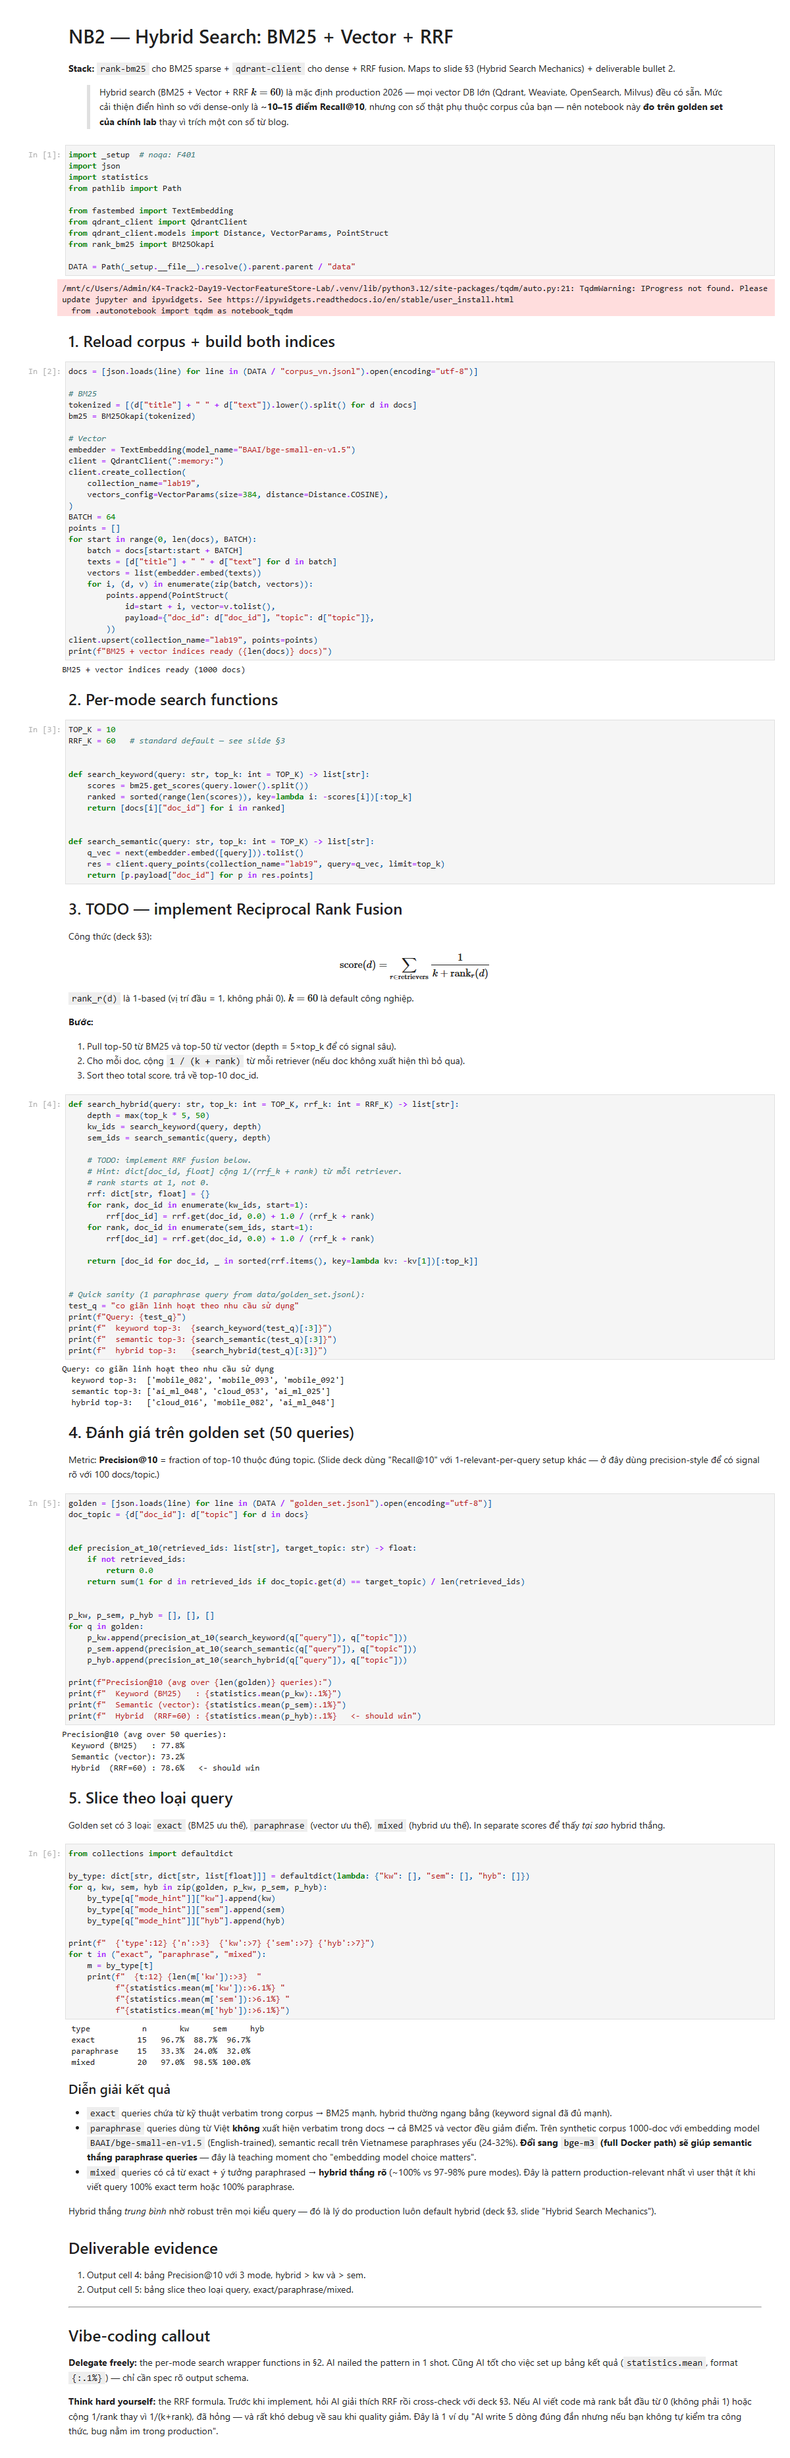
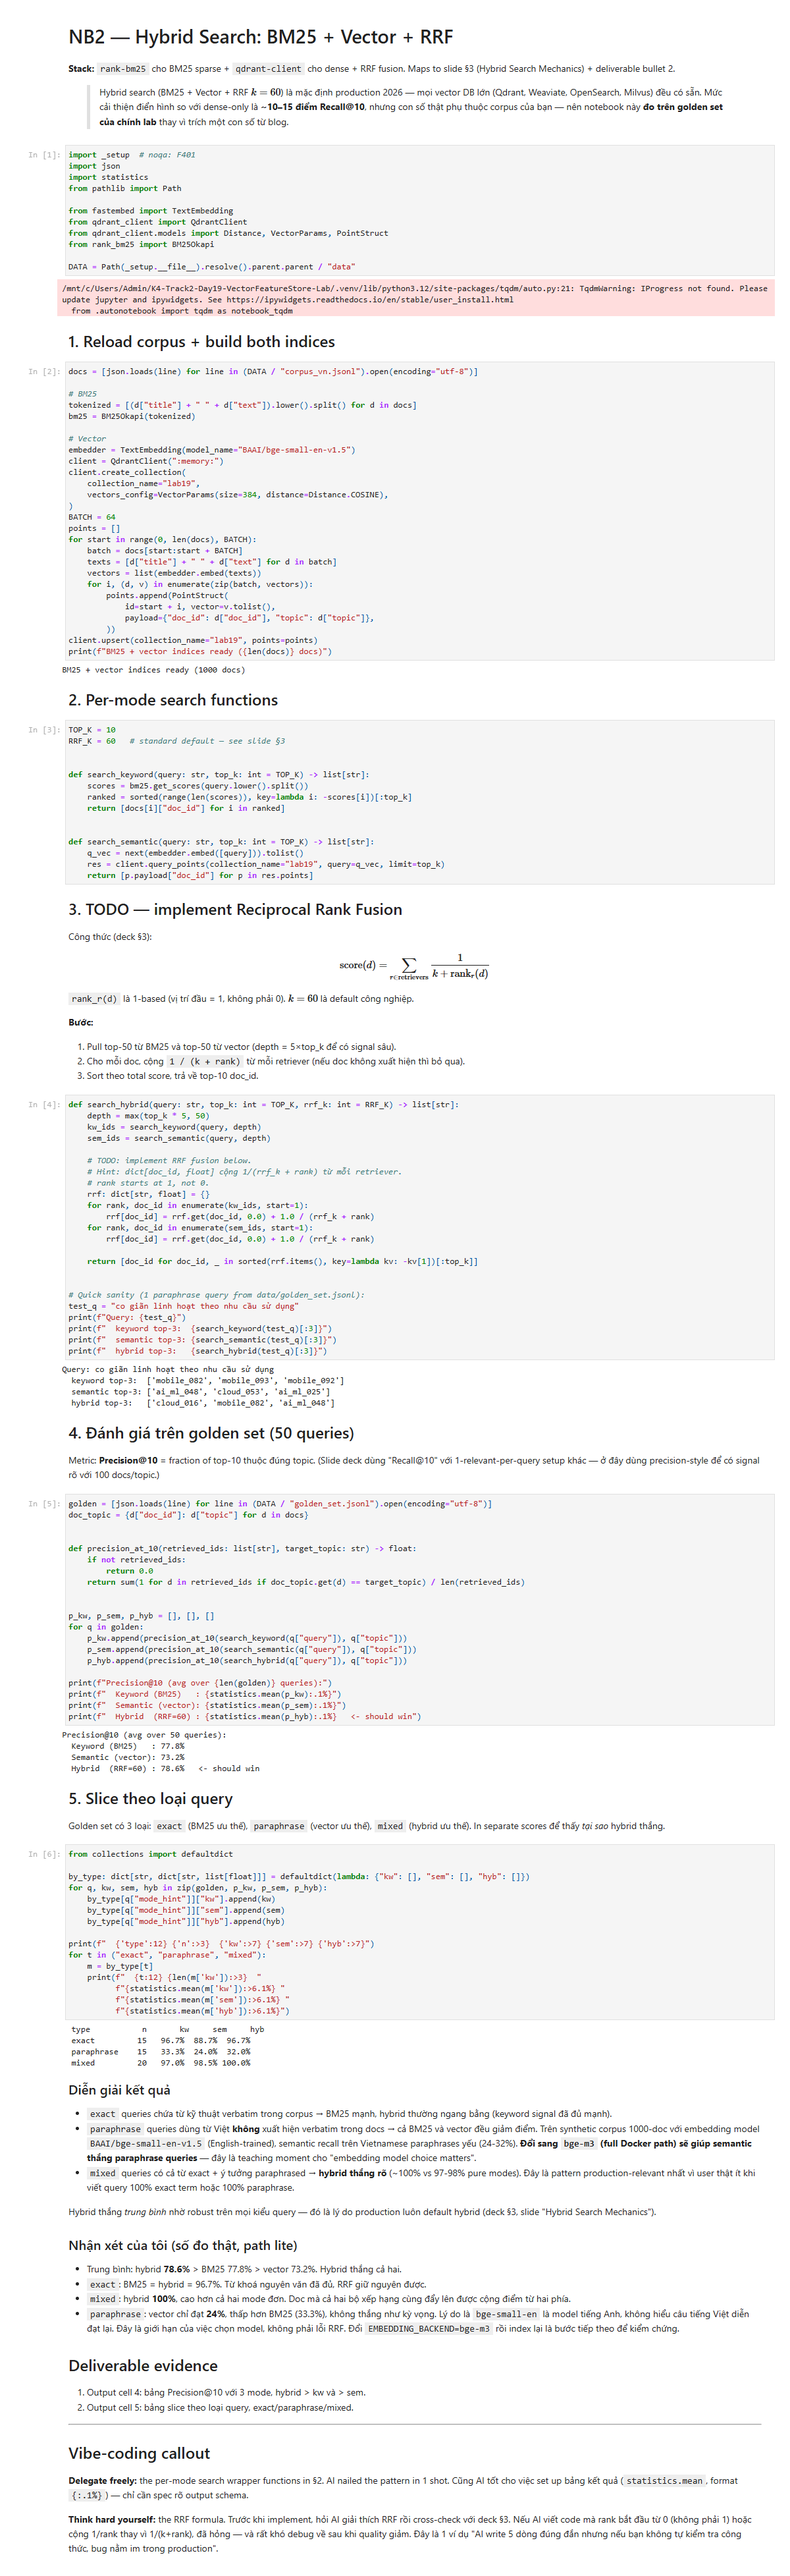
Add own analysis notes to NB2, NB6, NB7 and refresh screenshots

Changed region(s): [[0.0617, 0.0, 0.9867, 0.9944], [0.5858, 0.5904, 0.6167, 0.6215]]

diff --git a/notebooks/06_agent_retrieval.py b/notebooks/06_agent_retrieval.py
@@ -123,6 +123,28 @@ print(f"\nΔ recall vs single-shot:  tách câu {split - base:+.3f}   tách + fi
 # NB5 lặp lại ở tầng agent: **filter không miễn phí, phải đo chứ đừng đoán.**
 
 # %% [markdown]
+# ### Nhận xét của tôi: vì sao `agentic (+filter)` thấp hơn `agentic (no filter)`
+#
+# Cả ba chiến lược cùng lấy về 16 doc. Kết quả: single-shot recall 0.526 / balance
+# 0.08; tách câu không filter **0.906 / 0.93**; tách câu kèm filter 0.823 / 0.76.
+#
+# Bật filter mất khoảng 0.08 recall vì `topic` được **đoán từ keyword**
+# (`TOPIC_HINTS`, khớp theo chuỗi con). Mình so từng query: có đúng 2 query giảm
+# recall từ 1.00 xuống 0.50, và cả hai đều bị gán nhầm sang `ai_ml` do hint
+# `"ai"` khớp *bên trong từ khác*:
+#
+# - "circuit breaker tránh cascading f**ai**lure" bị gán `ai_ml`, trong khi gold
+#   thuộc `backend`.
+# - "xác thực h**ai** yếu tố cho người dùng" bị gán `ai_ml`, trong khi gold thuộc
+#   `security`.
+#
+# Filter sai loại toàn bộ doc đúng của vế đó, nên mất nửa recall. Bước reflection
+# không cứu được, vì nó chỉ thử lại khi có ít hơn 4 kết quả, mà cụm `ai_ml` vẫn
+# trả đủ 8 doc (chỉ là sai cụm). Cách sửa: khớp theo ranh giới từ (`\bai\b`) hoặc
+# để LLM chọn từ `enum`. Kết luận giống NB5: **filter là một giả định, phải đo
+# trên golden set trước khi bật mặc định.**
+
+# %% [markdown]
 # ## 4. Reflection: filter tồi còn tệ hơn không filter
 #
 # `Agent` thử lại **một lần** với filter được nới ra khi một call trả về quá ít

diff --git a/notebooks/07_semantic_cache.py b/notebooks/07_semantic_cache.py
@@ -116,6 +116,24 @@ for th in (0.60, 0.70, 0.75, 0.80, 0.85, 0.90, 0.95):
 # > hằng số để copy. Phân bố query của bạn quyết định con số cuối cùng.
 
 # %% [markdown]
+# ### Nhận xét của tôi: chọn ngưỡng **0.85** cho corpus này
+#
+# | ngưỡng | tiết kiệm | trả lời sai |
+# |---|---|---|
+# | 0.75 | 100% | **36%** |
+# | 0.80 | 100% | 5% |
+# | **0.85** | **100%** | **0%** |
+# | 0.90 | 96% | 0% |
+#
+# 0.75 chưa đủ: bảng cho thấy khoảng 31% số probe *không có* trong cache (36% trừ
+# 5%) vẫn có câu gần nhất với điểm 0.75–0.80. Corpus chỉ có 10 chủ đề với vốn từ
+# rất gần nhau, và `bge-small-en` không phân biệt tốt tiếng Việt. Vì vậy hai câu
+# hỏi khác nhau vẫn "trông giống" nhau, và cứ hơn một phần ba số lần trả lời là
+# trả lời cho câu hỏi khác. Ở 0.85, tỉ lệ sai về 0% mà vẫn giữ trọn phần tiết kiệm; 0.90 an
+# toàn hơn nhưng bắt đầu mất phần tiết kiệm. Mình chọn 0.85, kèm điều kiện phải
+# quét lại ngưỡng mỗi khi đổi embedding model hoặc khi phân bố query thay đổi.
+
+# %% [markdown]
 # ## 3. TTL: câu trả lời cũ không tự biết mình cũ
 #
 # `SemanticCache` dùng **đồng hồ ảo** (`advance()`) nên ta test được TTL mà không

diff --git a/notebooks/02_hybrid_search_rrf.py b/notebooks/02_hybrid_search_rrf.py
@@ -190,6 +190,18 @@ for t in ("exact", "paraphrase", "mixed"):
 # production luôn default hybrid (deck §3, slide "Hybrid Search Mechanics").
 
 # %% [markdown]
+# ### Nhận xét của tôi (số đo thật, path lite)
+#
+# - Trung bình: hybrid **78.6%** > BM25 77.8% > vector 73.2%. Hybrid thắng cả hai.
+# - `exact`: BM25 = hybrid = 96.7%. Từ khoá nguyên văn đã đủ, RRF giữ nguyên được.
+# - `mixed`: hybrid **100%**, cao hơn cả hai mode đơn. Doc mà cả hai bộ xếp hạng
+#   cùng đẩy lên được cộng điểm từ hai phía.
+# - `paraphrase`: vector chỉ đạt **24%**, thấp hơn BM25 (33.3%), không thắng như
+#   kỳ vọng. Lý do là `bge-small-en` là model tiếng Anh, không hiểu câu tiếng Việt
+#   diễn đạt lại. Đây là giới hạn của việc chọn model, không phải lỗi RRF. Đổi
+#   `EMBEDDING_BACKEND=bge-m3` rồi index lại là bước tiếp theo để kiểm chứng.
+
+# %% [markdown]
 # ## Deliverable evidence
 #
 # 1. Output cell 4: bảng Precision@10 với 3 mode, hybrid > kw và > sem.
